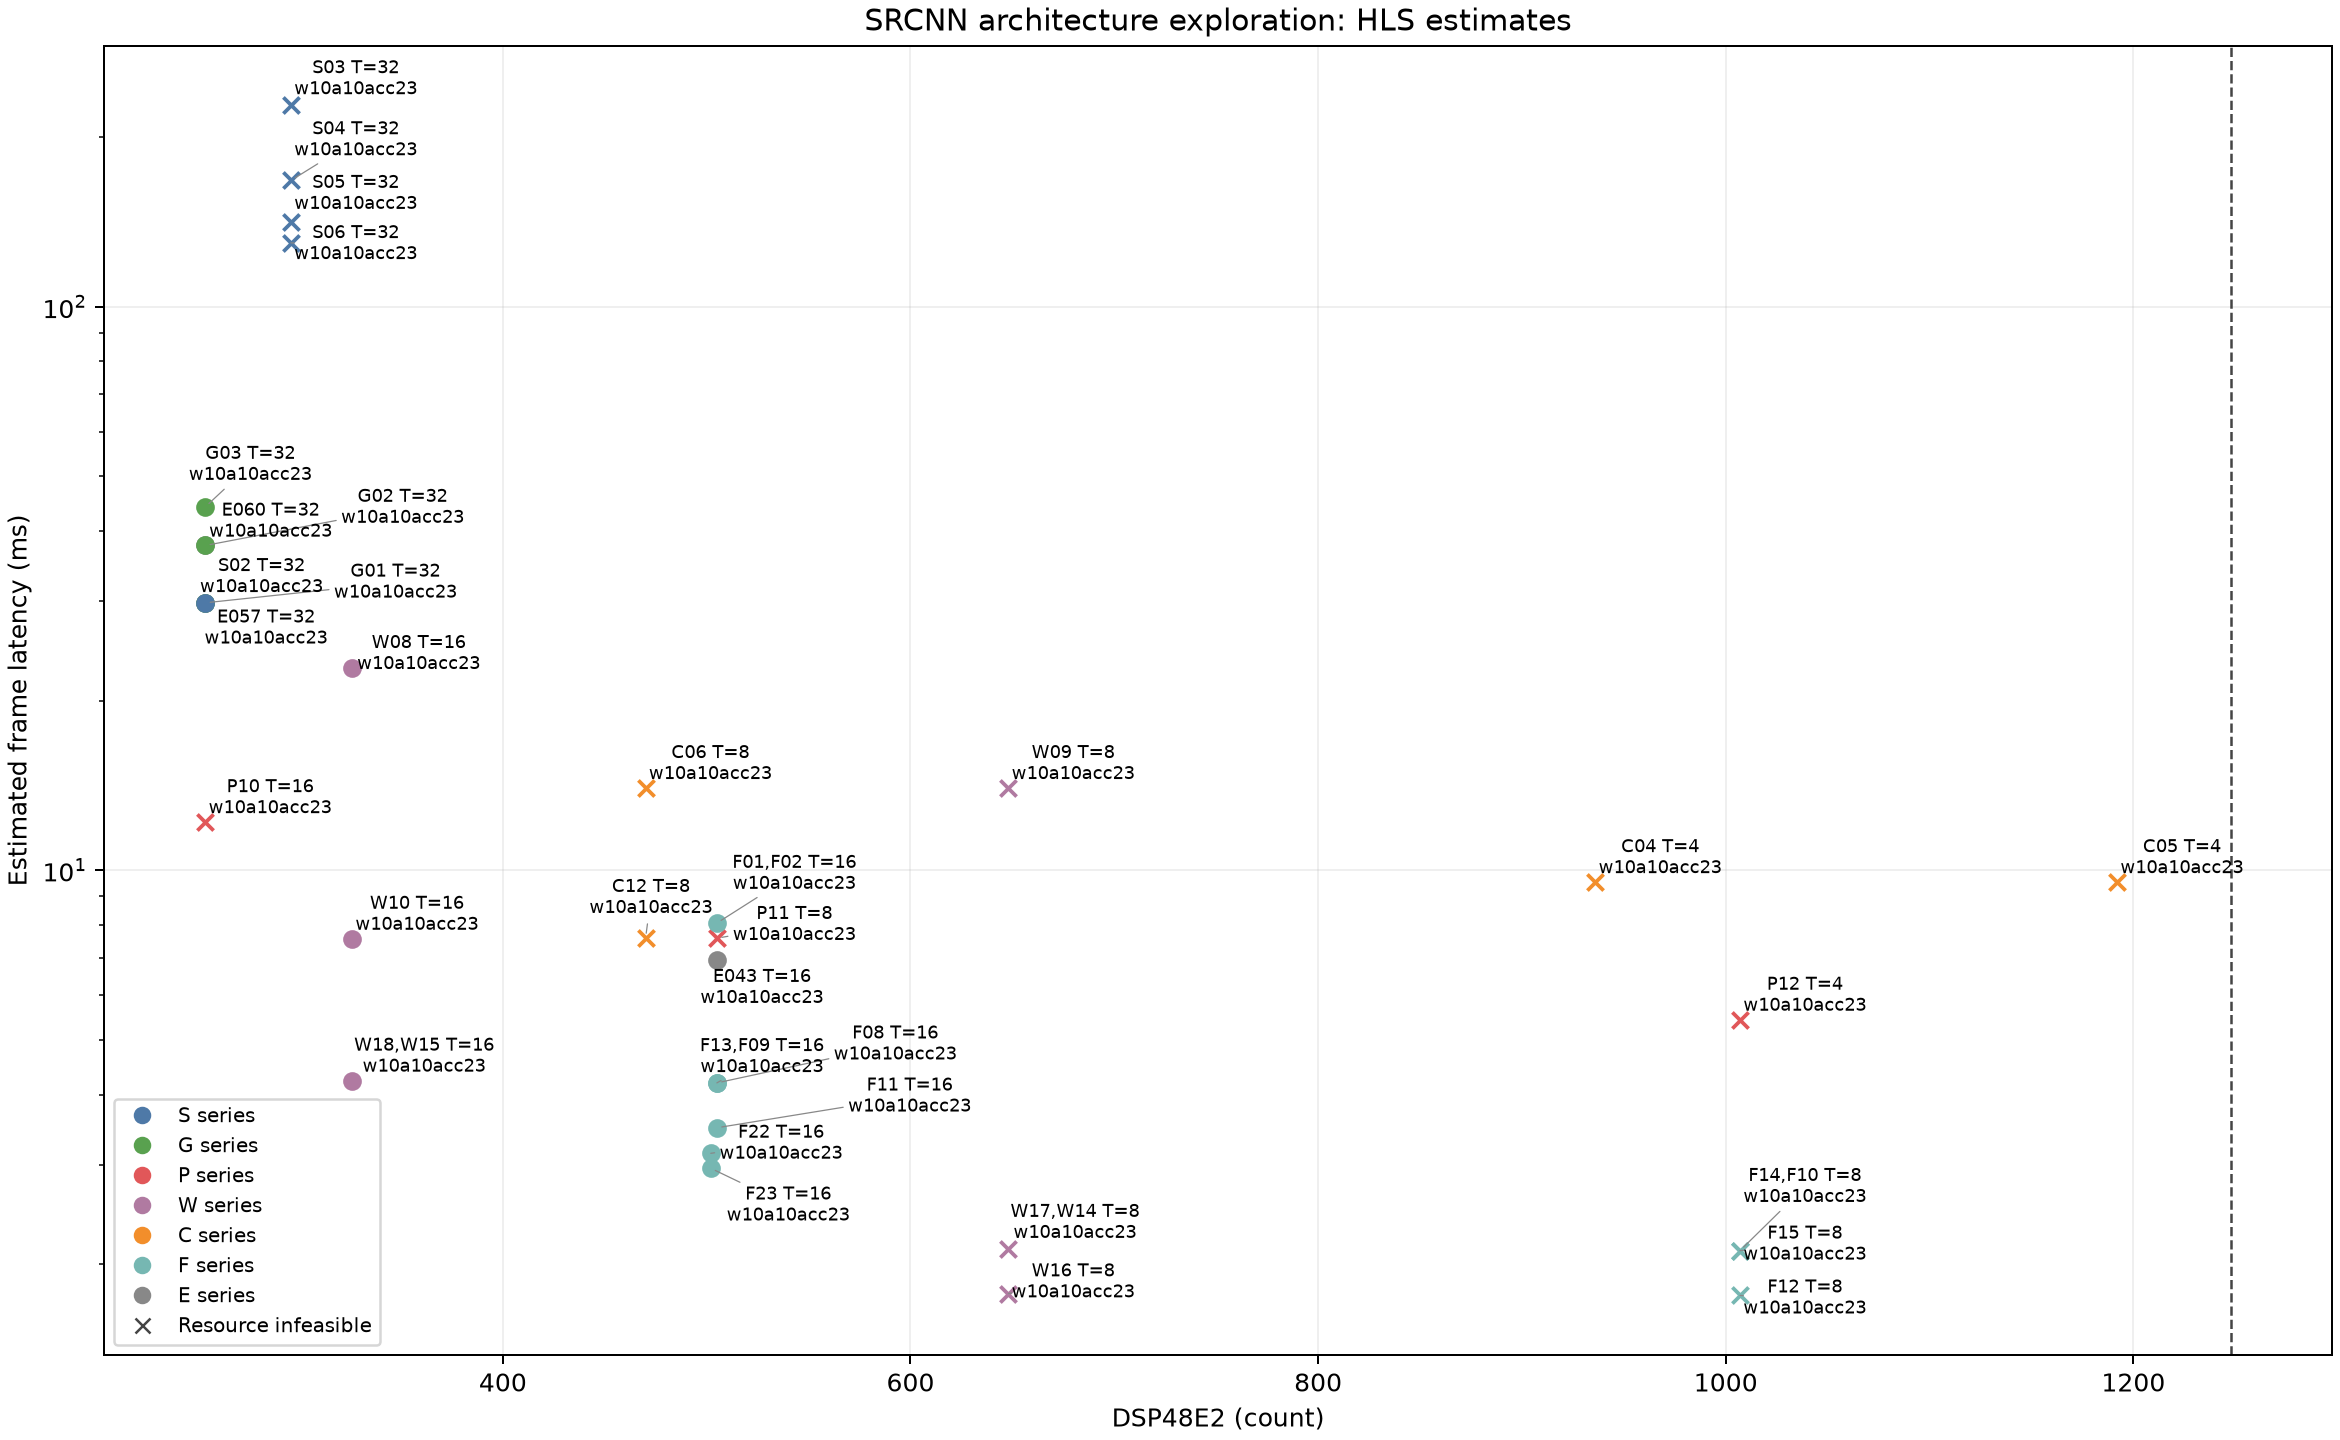
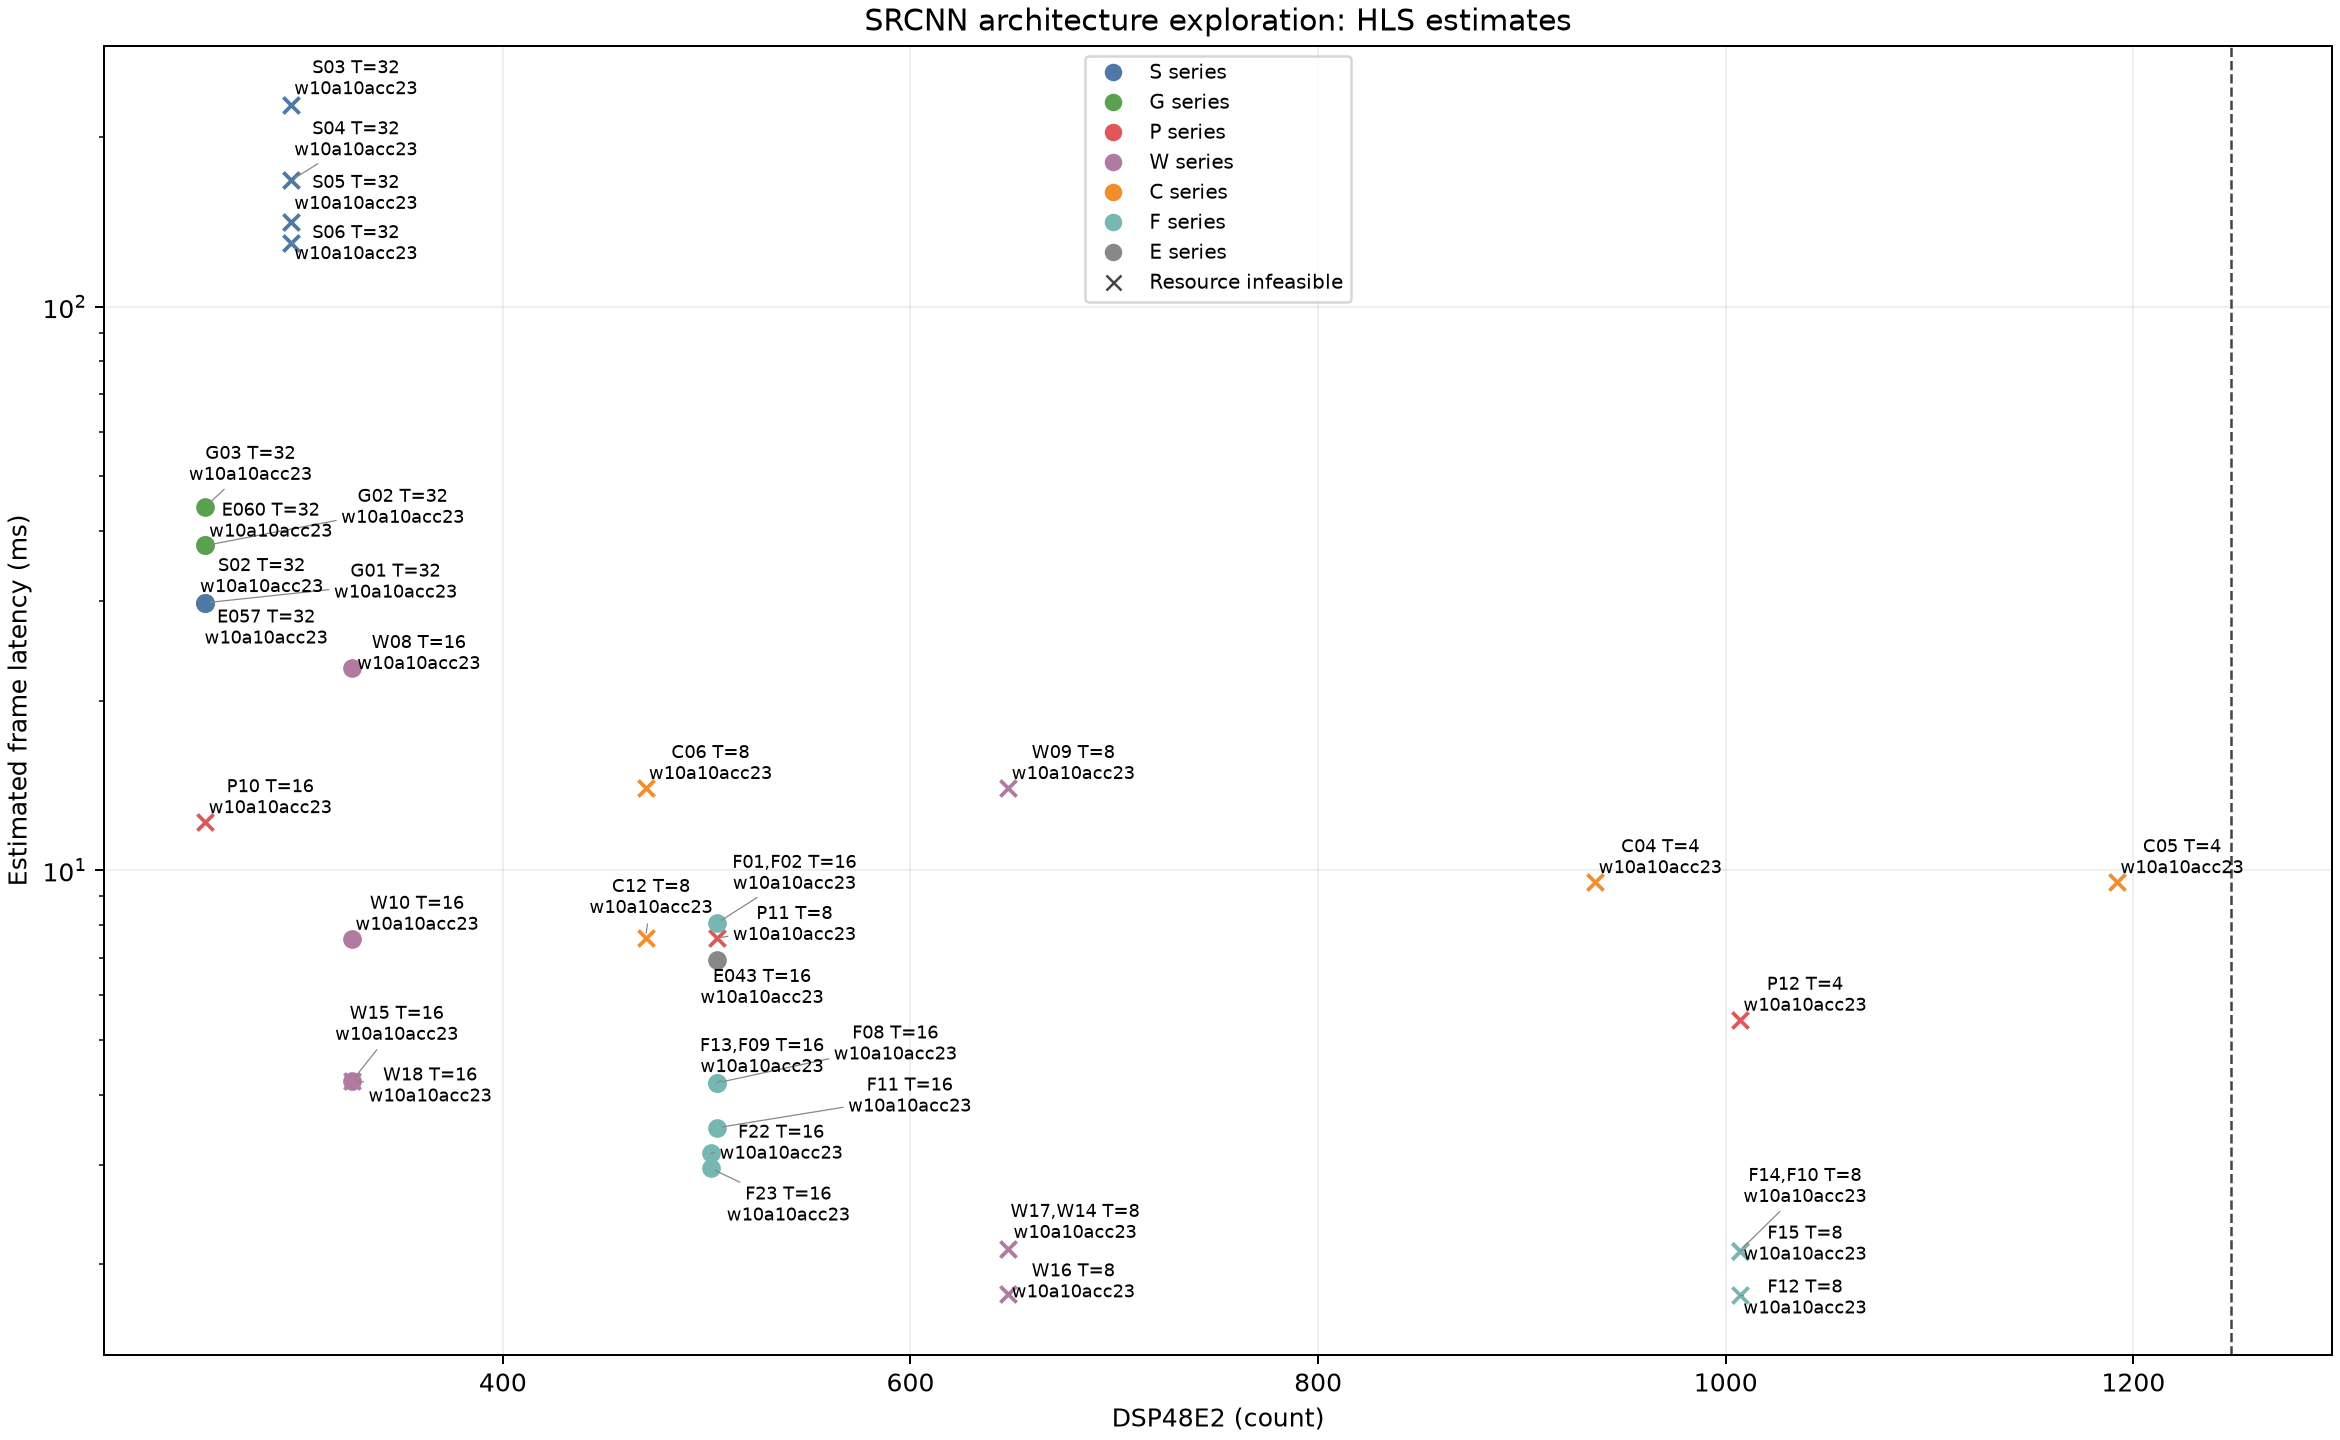
W16 retain_mixed_feasibility_pareto_markers

Changed region(s): [[0.0312, 0.75, 0.156, 0.9375], [0.4679, 0.0312, 0.5927, 0.2188], [0.156, 0.6875, 0.2184, 0.7812]]

diff --git a/exp/plots/architectures.py b/exp/plots/architectures.py
@@ -42,9 +42,9 @@ frames = [row for row in rows if row["scope"] == "frame" and not row["operation"
 fig,ax = plt.subplots(figsize=(13,8),constrained_layout=True)
 labels,grouped = [],{}
 for row in frames:
-    grouped.setdefault((num(row,"DSP"),num(row,"latency_ms_est"),row["series"] or "E"),[]).append(row)
-for (dsp,latency,series),points in grouped.items():
-    bad = all(p["status"] == "infeasible" for p in points)
+    grouped.setdefault((num(row,"DSP"),num(row,"latency_ms_est"),row["series"] or "E",
+                        row["status"] == "infeasible"),[]).append(row)
+for (dsp,latency,series,bad),points in grouped.items():
     ax.scatter(dsp,latency,color=COLORS[series],marker="x" if bad else "o",s=42)
     row = points[0]
     labels.append(ax.text(dsp,latency,",".join(p["id"] for p in points)+f" T={row['T_target']}\n"+row["precision_w_a_acc"],fontsize=7))
